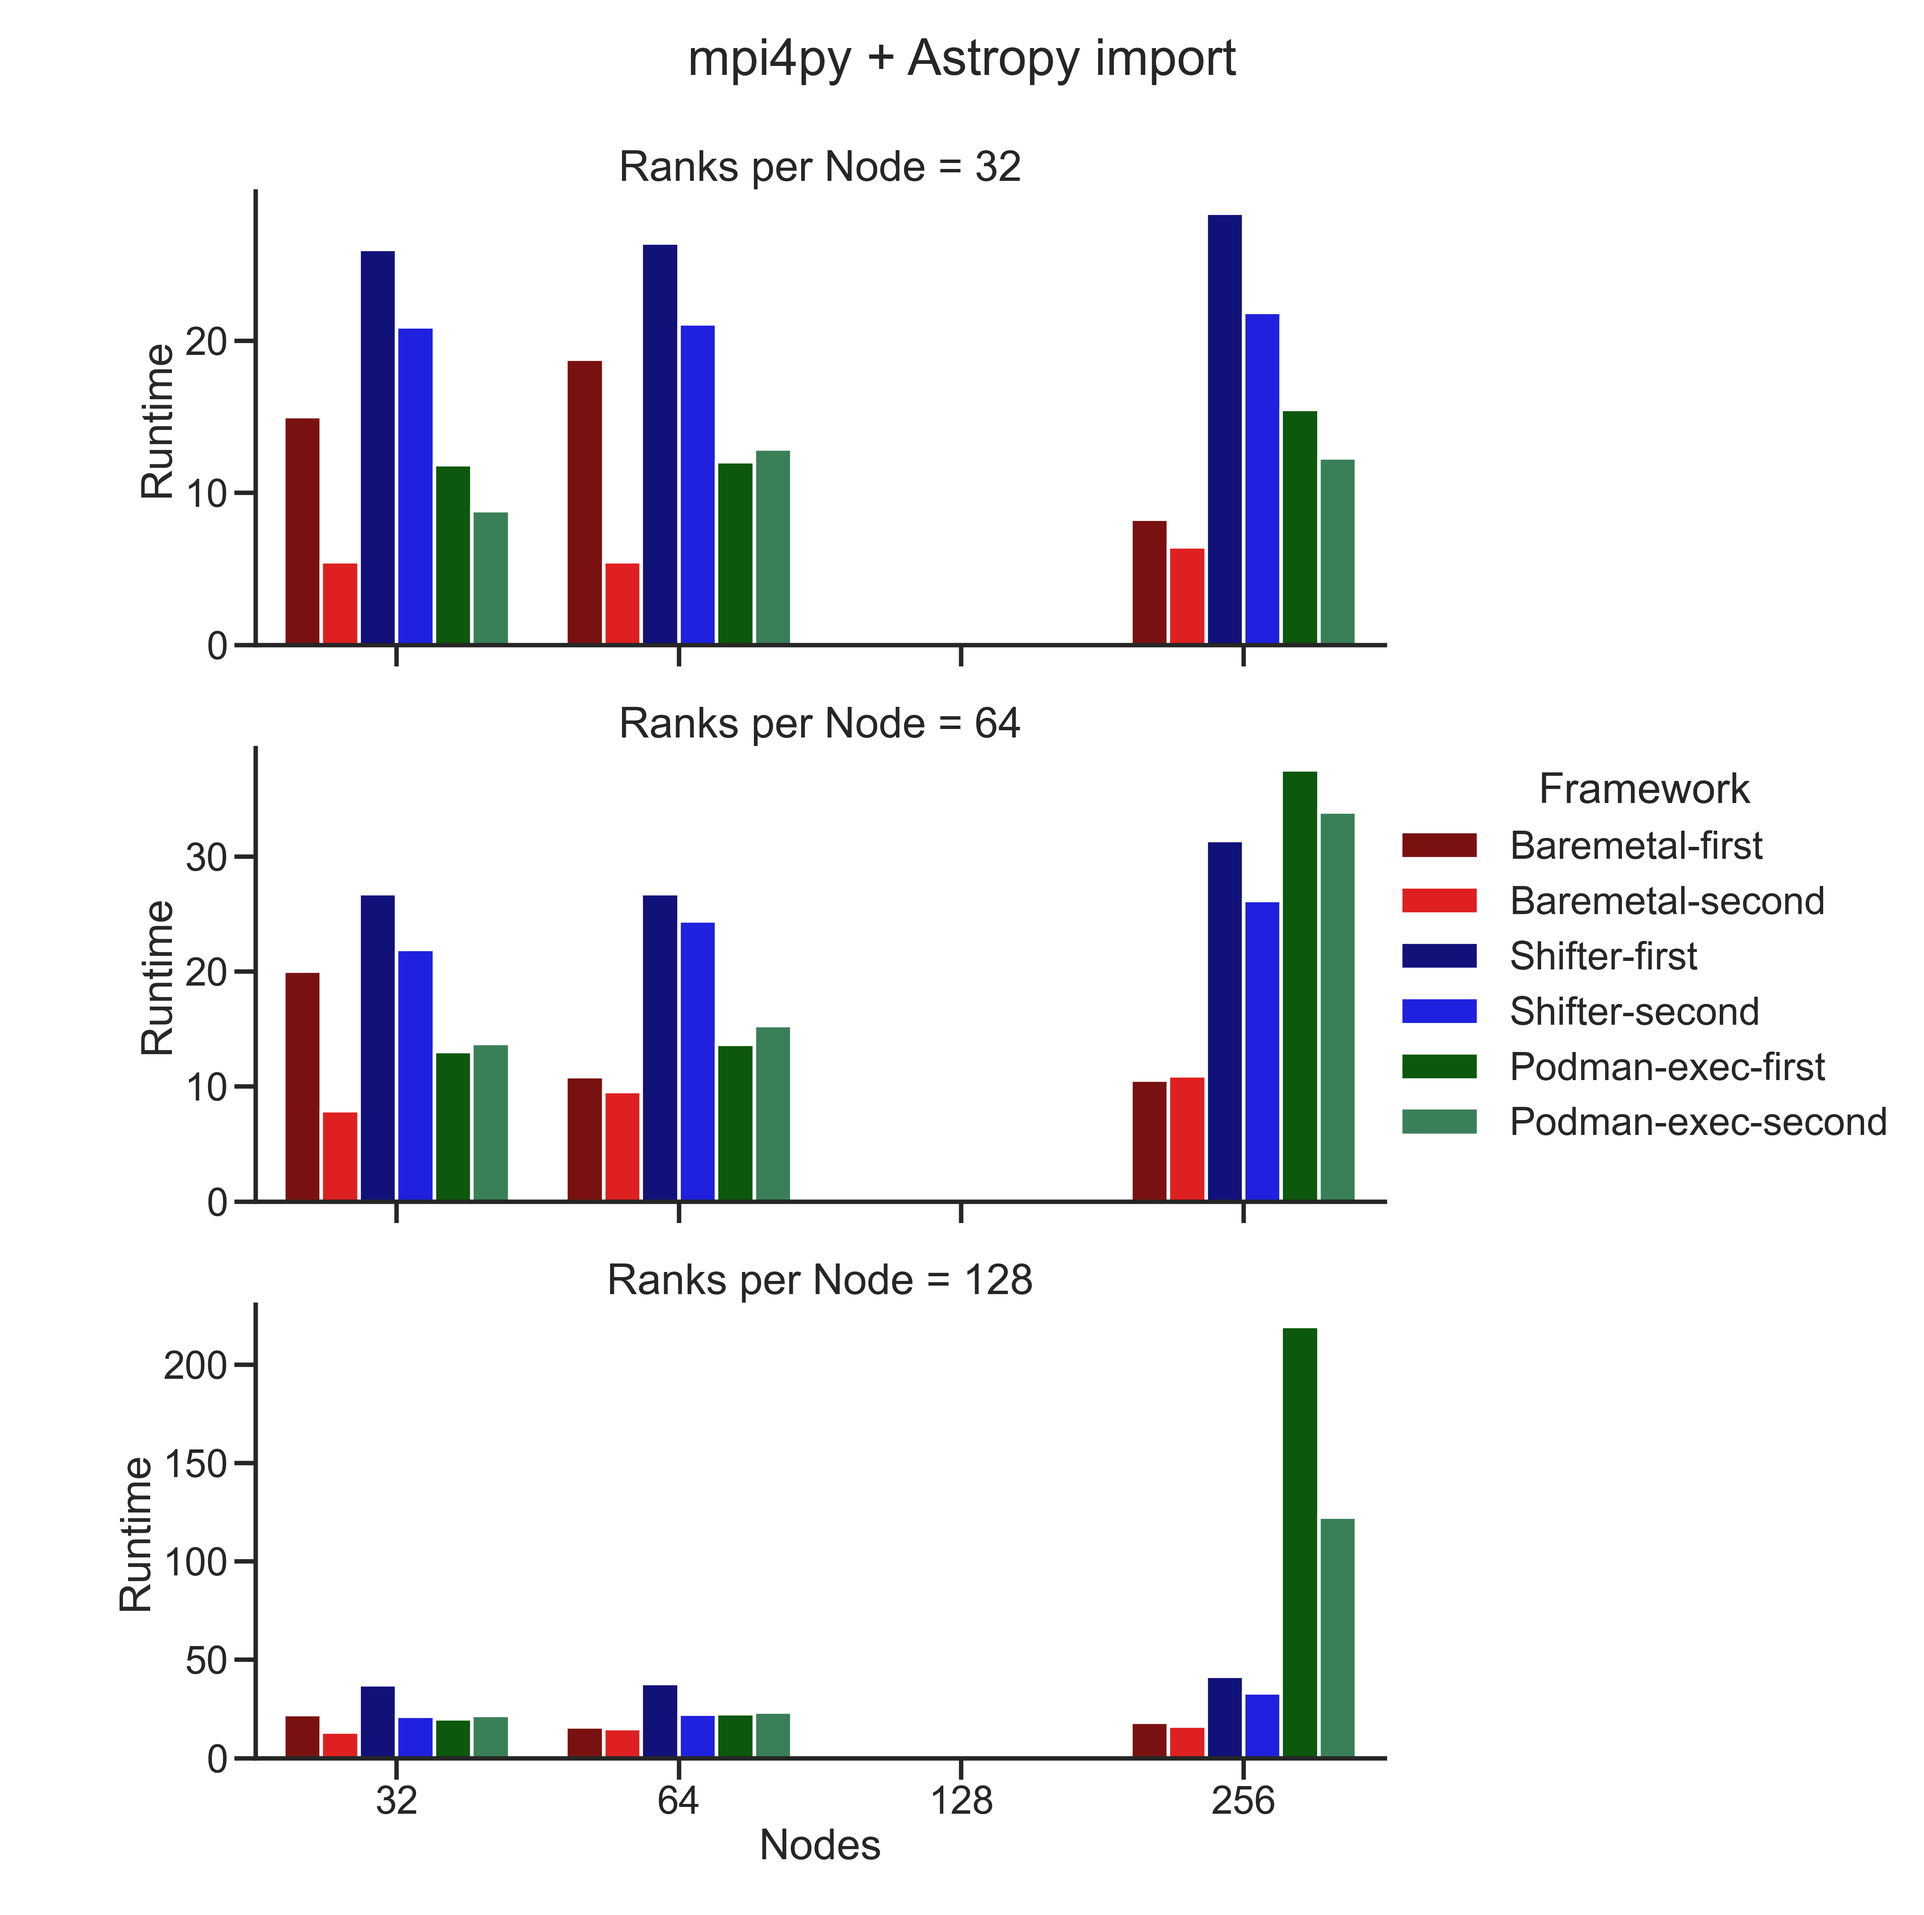
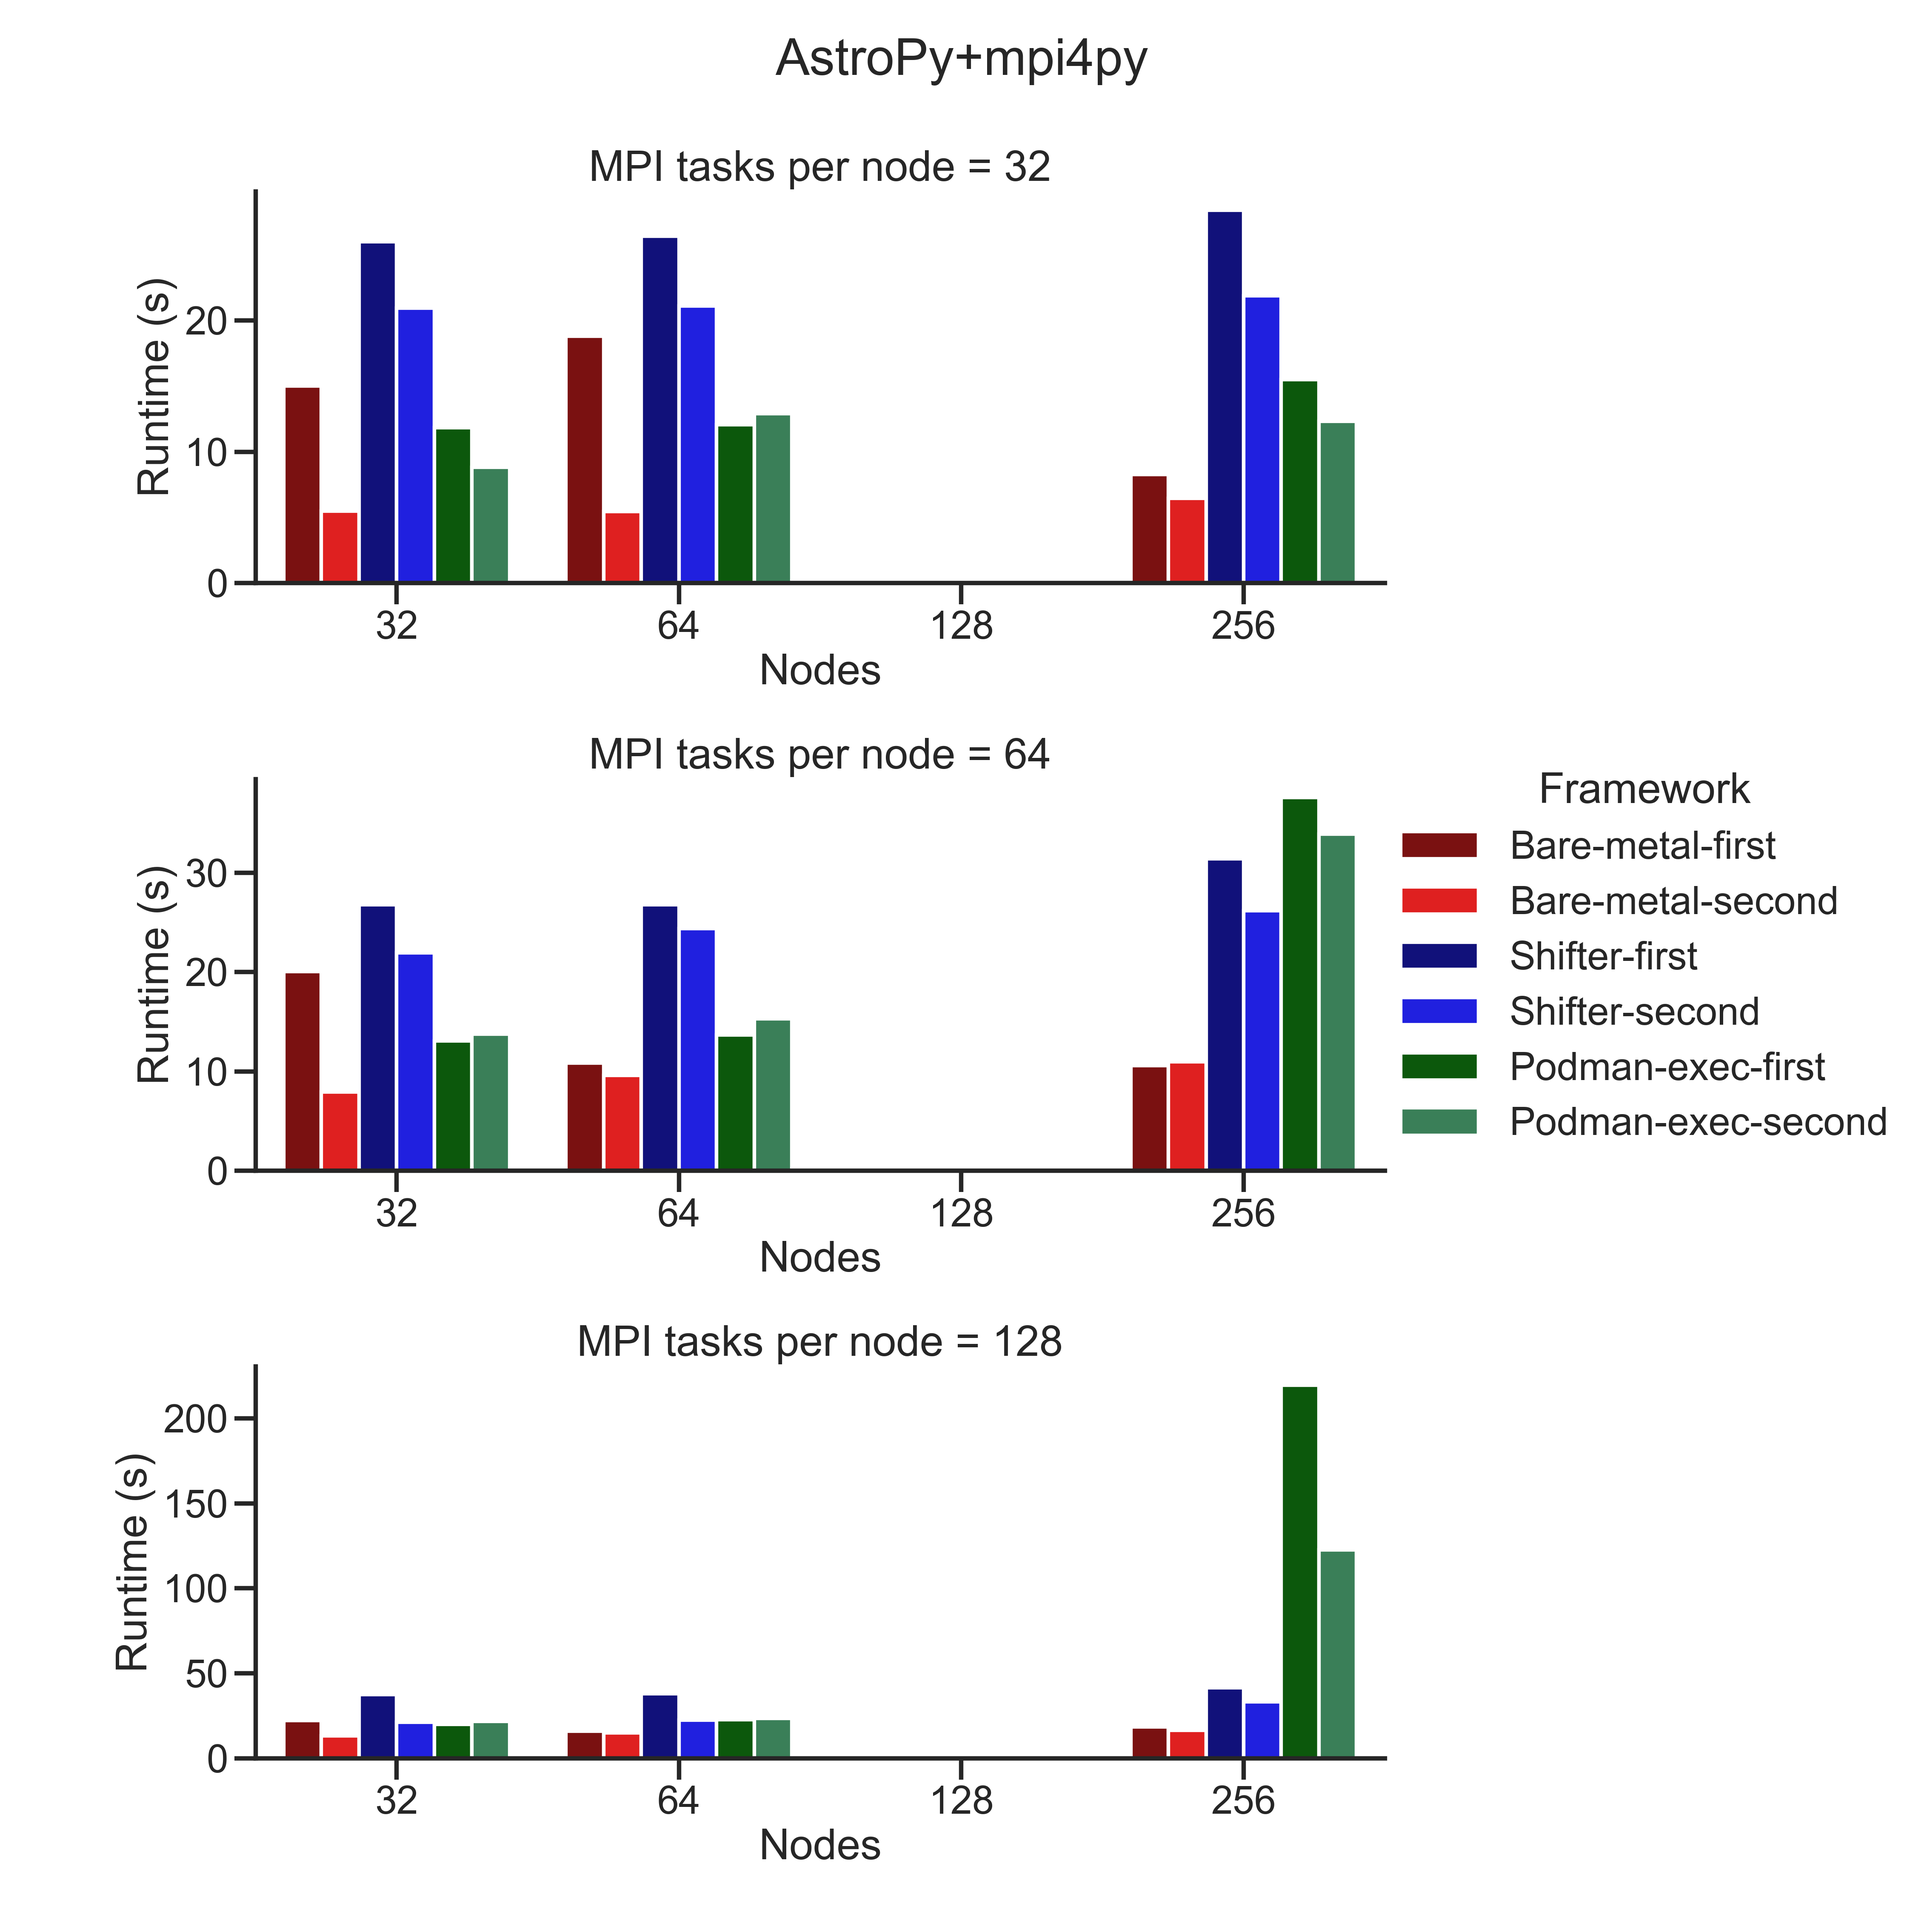
update astropy plotting

diff --git a/astropy-mpi4py/plots/plot-astropy-mpi4py-benchmarks.py b/astropy-mpi4py/plots/plot-astropy-mpi4py-benchmarks.py
@@ -19,22 +19,22 @@ sns.set_style("ticks")
 sns.set_context("poster")
 
 frameworks=np.array([
-'Baremetal-first',
+'Bare-metal-first',
 'Shifter-first',
 'Podman-exec-first',
-'Baremetal-first',
+'Bare-metal-first',
 'Shifter-first',
 'Podman-exec-first',
-'Baremetal-first',
+'Bare-metal-first',
 'Shifter-first',
 'Podman-exec-first',
-'Baremetal-second',
+'Bare-metal-second',
 'Shifter-second',
 'Podman-exec-second',
-'Baremetal-second',
+'Bare-metal-second',
 'Shifter-second',
 'Podman-exec-second',
-'Baremetal-second',
+'Bare-metal-second',
 'Shifter-second',
 'Podman-exec-second',
 'Podman-exec-second'
@@ -131,46 +131,56 @@ data128=np.array([
 dict32 = dict()
 dict32['Nodes']=nodes
 dict32['Framework']=frameworks
-dict32['Runtime']=data32
-dict32['Ranks per Node']=32*np.ones(19).astype(int)
+dict32['Runtime (s)']=data32
+dict32['MPI tasks per node']=32*np.ones(19).astype(int)
 df32 = pd.DataFrame(dict32)
 
 dict64 = dict()
 dict64['Nodes']=nodes
 dict64['Framework']=frameworks
-dict64['Runtime']=data64
-dict64['Ranks per Node']=64*np.ones(19).astype(int)
+dict64['Runtime (s)']=data64
+dict64['MPI tasks per node']=64*np.ones(19).astype(int)
 df64 = pd.DataFrame(dict64)
 
 dict128 = dict()
 dict128['Nodes']=nodes
 dict128['Framework']=frameworks
-dict128['Runtime']=data128
-dict128['Ranks per Node']=128*np.ones(19).astype(int)
+dict128['Runtime (s)']=data128
+dict128['MPI tasks per node']=128*np.ones(19).astype(int)
 df128 = pd.DataFrame(dict128)
 
 plotdf=pd.concat([df32,df64,df128])
-hue_order=["Baremetal-first","Baremetal-second","Shifter-first","Shifter-second","Podman-exec-first","Podman-exec-second"]
+hue_order=["Bare-metal-first","Bare-metal-second","Shifter-first","Shifter-second","Podman-exec-first","Podman-exec-second"]
 #a dictionary mapping hue levels to matplotlib colors
 palette=dict()
-palette['Baremetal-first']='darkred'
-palette['Baremetal-second']='red'
+palette['Bare-metal-first']='darkred'
+palette['Bare-metal-second']='red'
 palette['Shifter-first']='darkblue'
 palette['Shifter-second']='blue'
 palette['Podman-exec-first']='darkgreen'
 palette['Podman-exec-second']='seagreen'
 g=sns.catplot(data=plotdf,
-                row="Ranks per Node",
+                row="MPI tasks per node",
                 aspect=2.2,
                 x="Nodes", 
-                y="Runtime", 
+                y="Runtime (s)", 
                 hue="Framework",
                 hue_order=hue_order,
                 palette=palette,
                 kind="bar",
-                sharey=False)
+                sharey=False,
+                sharex=False,
+#                margin_titles=True)
+)
+
+#label nodes on every xaxis
+ax = g.axes
+ax[0,0].set_xlabel("Nodes")
+ax[1,0].set_xlabel("Nodes")
+ax[2,0].set_xlabel("Nodes")
 
 # Finalize the plot
-g.fig.subplots_adjust(top=0.9)
-g.fig.suptitle('mpi4py + Astropy import')
+g.fig.subplots_adjust(top=0.90)
+plt.subplots_adjust(hspace=0.5)
+g.fig.suptitle('AstroPy+mpi4py')
 plt.savefig("astropyle.png", dpi=300)
